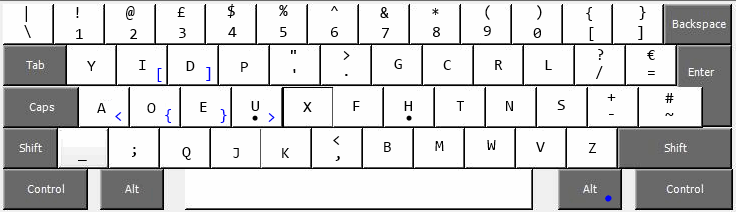
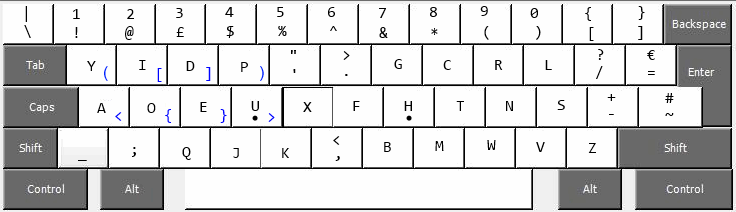
various refinements

diff --git a/README.md b/README.md
@@ -8,11 +8,15 @@ Why?
 ------
 I wanted a keyboard layout that requires the minimum of movement from home position.
 This is that layout; It's very similar to the Dvorak Simplified layout, but with all alphabet keys in non-stretch positions.
+It's also a UK Dvorak layout for Windows.
+
+Programmer Specific Features
+-----------------------------
+* Alt-Gr grouping keys (try ctrl-alt + Y,I,D,P,A,O,E,U)
+* Shift swapped numeric row
 
 Todo:
 -----
-* Fix the scan codes in the windows driver
-* Swap the symbols and numbers at the top row
 * Make a Linux xkbd driver
 * Explain to co-workers why they can't make my machine work...
 
